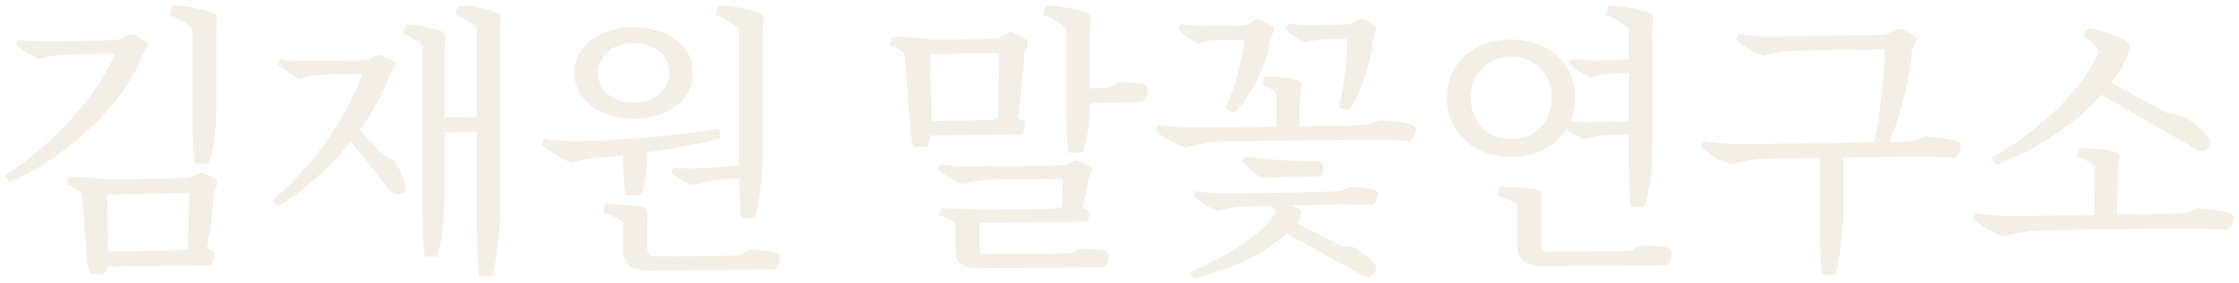
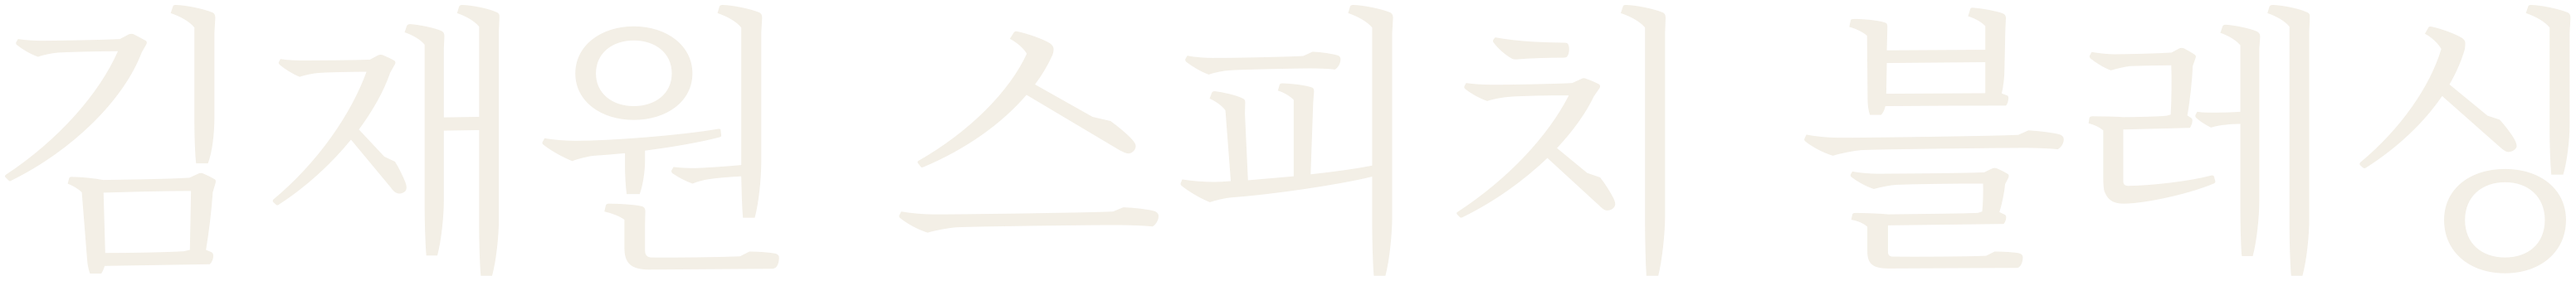
업데이트 2026-10-14: 이름 변경: 김재원 스피치 블레싱(제목 · 워드마크)

Changed region(s): [[0.0, 0.0, 1.0, 0.9735], [0.0, 0.5015, 0.0311, 0.5605]]

diff --git a/index.html b/index.html
@@ -3,7 +3,7 @@
 <head>
 <meta charset="utf-8">
 <meta name="viewport" content="width=device-width, initial-scale=1">
-<title>김재원 말꽃연구소 인터뷰 아카이브</title>
+<title>김재원 스피치 블레싱 인터뷰 아카이브</title>
 <meta name="robots" content="noindex,nofollow,noarchive">
 <link rel="preconnect" href="https://fonts.googleapis.com">
 <link rel="stylesheet" href="https://fonts.googleapis.com/css2?family=Noto+Serif+KR:wght@400;500&family=Noto+Sans+KR:wght@400;500;700&display=swap">
@@ -177,8 +177,8 @@
 <body>
 <header class="top">
   <div class="wrap row">
-    <a class="brand" href="#/" aria-label="김재원 말꽃연구소 인터뷰 아카이브 홈">
-      <img class="logo-light" src="assets/malkkot-wordmark-inline-light.png" alt="김재원 말꽃연구소" onerror="this.style.display='none'">
+    <a class="brand" href="#/" aria-label="김재원 스피치 블레싱 인터뷰 아카이브 홈">
+      <img class="logo-light" src="assets/malkkot-wordmark-inline-light.png" alt="김재원 스피치 블레싱" onerror="this.style.display='none'">
       <img class="logo-dark" src="assets/malkkot-wordmark-inline-dark.png" alt="" onerror="this.style.display='none'">
       <span class="sub">인터뷰 아카이브</span>
     </a>

diff --git a/README.md b/README.md
@@ -1,4 +1,4 @@
-# 김재원 말꽃연구소 인터뷰 아카이브
+# 김재원 스피치 블레싱 인터뷰 아카이브
 
 김재원 아나운서가 진행한 인터뷰 영상(책과삶, 김재원TV, CGN 하늘빛향기, C채널 광야예찬)을 게스트, 주제, 진행자의 말, 게스트의 반응으로 찾아보는 내부 학습용 대시보드입니다.
 
